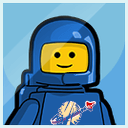
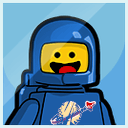
improved preset styling; disabled eggy; updated benny and wisely

diff --git a/docs/index.html b/docs/index.html
@@ -16,14 +16,14 @@
             <div class="presets collapsable">
                 <button class="collapsable-button">Presets</button>
                 <div class="presets-list collapsable-content">
-                    <a class="preset-box"><img class="preset-decal" src="decals/mariia.png" width="32" height="32"><span class="preset-name">Mariia [GL]</span></a>
-                    <a class="preset-box"><img class="preset-decal" src="decals/hiker.png" width="32" height="32"><span class="preset-name">Emilian [GL]</span></a>
-                    <a class="preset-box"><img class="preset-decal" src="decals/eggy.png" width="32" height="32"><span class="preset-name">Yolkano Eggsplorer Eggy</span></a>
-                    <a class="preset-box"><img class="preset-decal" src="decals/unikitty.png" width="32" height="32"><span class="preset-name">Unikitty</span></a>
-                    <a class="preset-box"><img class="preset-decal" src="decals/benny.png" width="32" height="32"><span class="preset-name">Benny</span></a>
-                    <a class="preset-box"><img class="preset-decal" src="decals/jenny.png" width="32" height="32"><span class="preset-name">Jenny</span></a>
-                    <a class="preset-box"><img class="preset-decal" src="decals/kenny.png" width="32" height="32"><span class="preset-name">Kenny</span></a>
-                    <a class="preset-box"><img class="preset-decal" src="decals/lenny.png" width="32" height="32"><span class="preset-name">Lenny</span></a>
+                    <a class="preset-box"><img class="preset-decal" src="decals/mariia.png" width="36" height="36"><span class="preset-name">Mariia [GL]</span></a>
+                    <a class="preset-box"><img class="preset-decal" src="decals/hiker.png" width="36" height="36"><span class="preset-name">Emilian [GL]</span></a>
+                    <!--a class="preset-box"><img class="preset-decal" src="decals/eggy.png" width="36" height="36"><span class="preset-name">Yolkano Eggsplorer Eggy</span></a-->
+                    <a class="preset-box"><img class="preset-decal" src="decals/unikitty.png" width="36" height="36"><span class="preset-name">Unikitty</span></a>
+                    <a class="preset-box"><img class="preset-decal" src="decals/benny.png" width="36" height="36"><span class="preset-name">Benny</span></a>
+                    <a class="preset-box"><img class="preset-decal" src="decals/jenny.png" width="36" height="36"><span class="preset-name">Jenny</span></a>
+                    <a class="preset-box"><img class="preset-decal" src="decals/kenny.png" width="36" height="36"><span class="preset-name">Kenny</span></a>
+                    <a class="preset-box"><img class="preset-decal" src="decals/lenny.png" width="36" height="36"><span class="preset-name">Lenny</span></a>
                 </div>
             </div>
 

diff --git a/docs/main.css b/docs/main.css
@@ -327,24 +327,21 @@ label.switch input:checked + .flipper .slider:before {
     display: none;
 }
 
-.presets {
-}
-
 .presets-list {
     display: flex;
     flex-wrap: wrap;
-    justify-content: space-between;
+    padding: 0 4px;
 }
 
 .preset-box {
     display: inline-block;
-    padding: 6px 10px;
-    margin: 0 8px 8px 0;
+    padding: 8px 12px;
+    margin: 0 4px 8px 4px;
     background: var(--grayish-blue-medium);
     border-color: var(--grayish-blue-border-light);
-    border-radius: 8px;
+    border-radius: 10px;
     font-family: 'Mouse Memoirs', sans-serif;
-    font-size: 24px;
+    font-size: 26px;
     color: var(--white);
     cursor: pointer;
 }
@@ -362,10 +359,6 @@ label.switch input:checked + .flipper .slider:before {
 .collapsable {
     border: 4px solid var(--grayish-blue-medium);
     border-radius: 8px;
-}
-
-.collapsable-content {
-    padding: 0 8px;
 }
 
 .collapsable-button {
